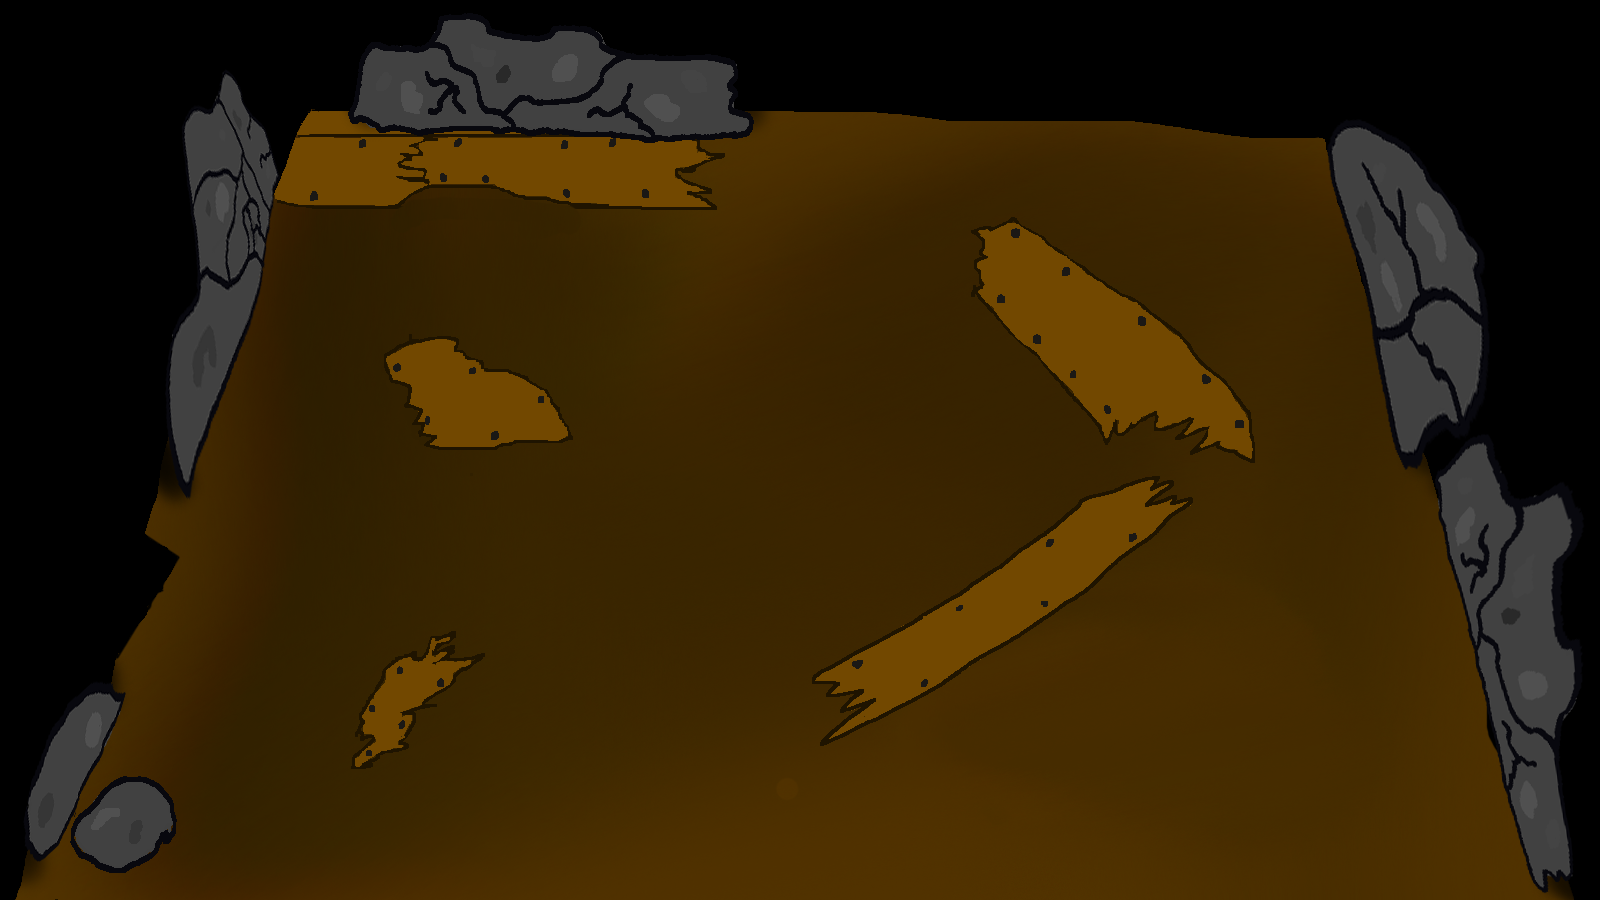
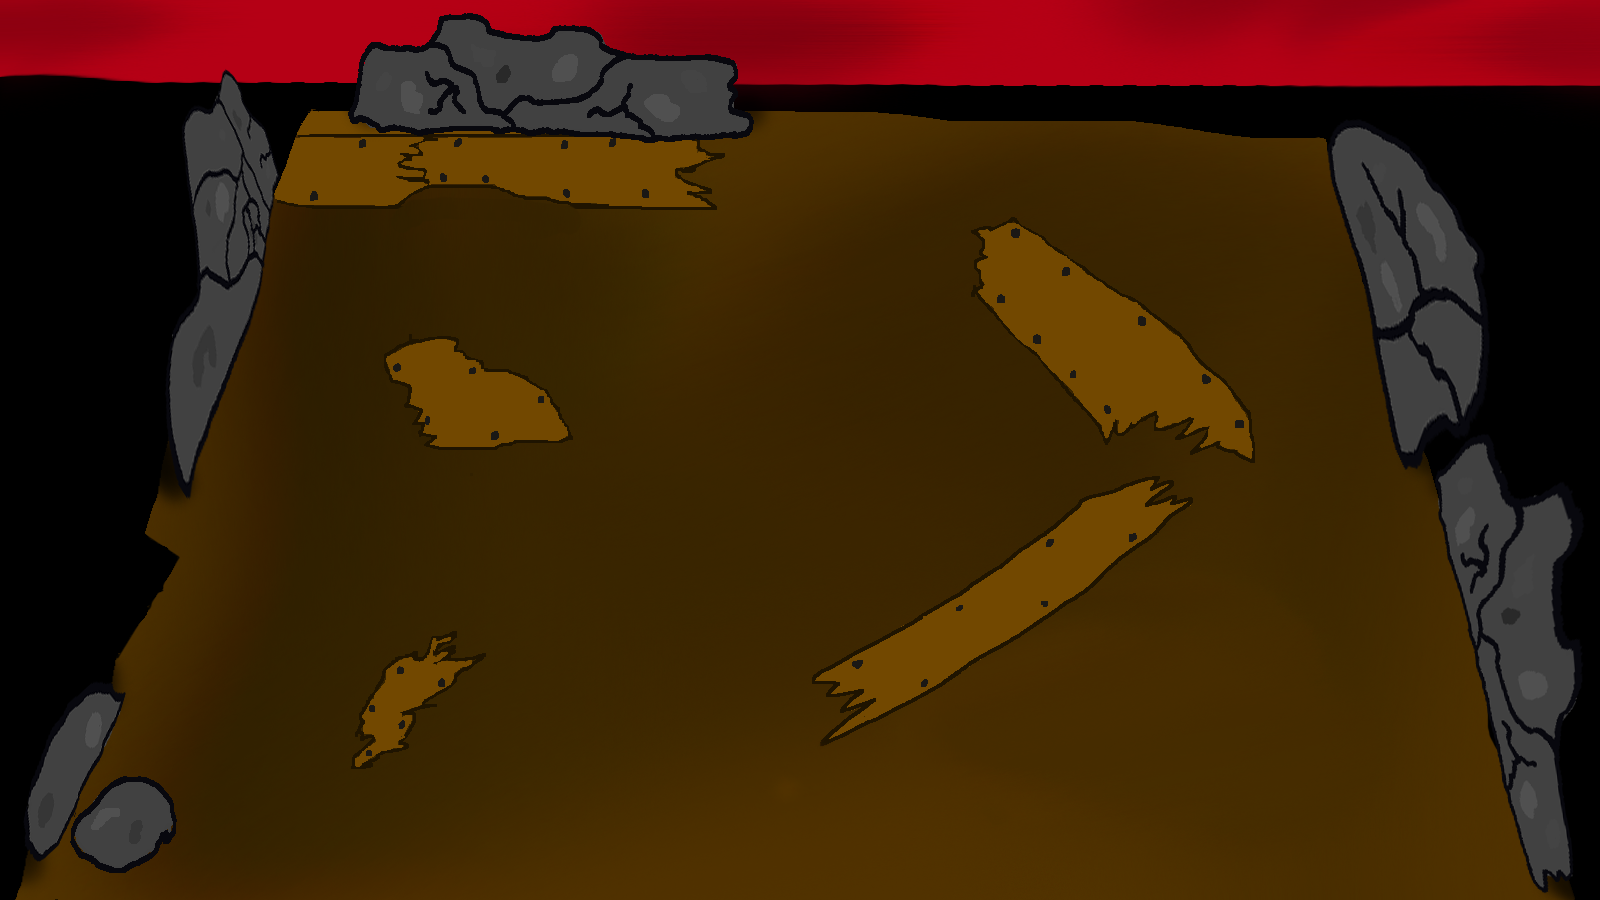
Добавлен класс тумана

Changed region(s): [[0.0, 0.0, 1.0, 0.1244]]

diff --git a/main.py b/main.py
@@ -7,11 +7,11 @@ pygame.init()
 
 all_sprites = pygame.sprite.Group()
 anti_floor_group = pygame.sprite.Group()
-fire_group=pygame.sprite.Group()
-
-
+fire_group = pygame.sprite.Group()
+fog_group = pygame.sprite.Group()
 
 player_group = pygame.sprite.Group()
+
 
 FPS = 60
 
@@ -37,24 +37,24 @@ class Player(pygame.sprite.Sprite):
 
 
 class AntiFloor(pygame.sprite.Sprite):
-    def __init__(self,name_of_map,map):
+    def __init__(self, name_of_map, map):
         super().__init__(anti_floor_group, all_sprites)
         self.image = load_image(name_of_map)
 
-        self.image=pygame.transform.scale(self.image, (
-        map.get_size()))
-
+        self.image = pygame.transform.scale(self.image, (
+            map.get_size()))
 
         self.mask = pygame.mask.from_surface(self.image)  # Берётся маска пола
         self.mask.invert()  # маска пола превращается в маску НЕ ПОЛА, т.е. в маску стен
 
         self.rect = self.image.get_rect().move(0, 0)
 
+
 class FireAnimation(pygame.sprite.Sprite):
-    def __init__(self, sheet, columns, rows, x, y,coefficient):
-        super().__init__(fire_group,all_sprites)
+    def __init__(self, sheet, columns, rows, x, y, coefficient):
+        super().__init__(fire_group, all_sprites)
         self.frames = []
-        sheet = pygame.transform.scale(sheet, (sheet.get_width()//coefficient, sheet.get_height()//coefficient))
+        sheet = pygame.transform.scale(sheet, (sheet.get_width() // coefficient, sheet.get_height() // coefficient))
         self.cut_sheet(sheet, columns, rows)
         self.cur_frame = 0
         self.image = self.frames[self.cur_frame]
@@ -74,34 +74,49 @@ class FireAnimation(pygame.sprite.Sprite):
         self.image = self.frames[self.cur_frame]
 
 
+class Fog(pygame.sprite.Sprite):
+    def __init__(self, map):
+        super().__init__(fog_group, all_sprites)
+
+        self.image = load_image("туман_дом.png")
+        self.image = pygame.transform.scale(self.image,
+                                            (self.image.get_width(), map.get_size())[1])
+
+        self.rect = self.image.get_rect()
+
+    def update(self):
+        self.rect.left -= 1  # движение тумана
+        if self.rect.right < 0:  # телепортация
+            self.rect = self.rect.move((pygame.display.get_surface().get_size()[0] * 2.5, 0))
+
 
 def maps_loader(name_of_map):
-
-
-    map= pygame.transform.scale(load_image('карта_дом.png'), (
+    map = pygame.transform.scale(load_image(name_of_map), (
         pygame.display.get_surface().get_size()))  # Загрузать и изменить карту под размер окна
 
-    if name_of_map=="карта_дом.png":
-        anti_floor = AntiFloor("пол_дом.png",map)
+    if name_of_map == "карта_дом.png":
+        pygame.time.set_timer(pygame.USEREVENT + 1, 240)  # таймер для огня
+        pygame.time.set_timer(pygame.USEREVENT + 2, 140)  # таймер для тумана
 
-        coefficient=2
-        FireAnimation(load_image("огонь.png"), 6, 1, map.get_size()[0]//4.8,map.get_size()[1]//1.6, coefficient)
+        anti_floor = AntiFloor("пол_дом.png", map)
 
-        return map,anti_floor
+        firentlmt = load_image("огонь.png")  # Fire not to load many times Огонь чтобы не загружать много раз
+        FireAnimation(firentlmt, 6, 1, map.get_size()[0] // 4.8, map.get_size()[1] // 1.6, coefficient=2)
+        FireAnimation(firentlmt, 6, 1, map.get_size()[0] // 1.5, map.get_size()[1] // 3.1, coefficient=3.5)
+
+        Fog(map)
+
+        return map, anti_floor
     return map
-#-----------------------------------------------------------------------------------------------------------
 
 
+# -----------------------------------------------------------------------------------------------------------
 
 
 def start():
-    map,anti_floor=maps_loader('карта_дом.png')
-
+    map, anti_floor = maps_loader('карта_дом.png')
 
     screen.blit(map, (0, 0))
-
-    pygame.time.set_timer(pygame.USEREVENT + 1, 240)
-
 
     running = True
     player = Player(500, 500)
@@ -113,15 +128,17 @@ def start():
                 running = False
             elif event.type == pygame.USEREVENT + 1:
                 fire_group.update()
+            elif event.type == pygame.USEREVENT + 2:
 
-        #------------------------------------------------------------------------------------------------
+                fog_group.update()
+
+        # ------------------------------------------------------------------------------------------------
         if (pygame.key.get_pressed()[K_RIGHT] or pygame.key.get_pressed()[K_d]):
 
             player.rect.left += 10
-            if pygame.sprite.collide_mask(player,anti_floor):  # Если после того как
+            if pygame.sprite.collide_mask(player, anti_floor):  # Если после того как
                 # персонаж прошёл, он соприкасается со стеной
-                player.rect.left -= 10 # то его отбросит назад
-
+                player.rect.left -= 10  # то его отбросит назад
 
         # ------------------------------------------------------------------------------------------------
         if pygame.key.get_pressed()[K_LEFT] or pygame.key.get_pressed()[K_a]:
@@ -129,32 +146,26 @@ def start():
             if pygame.sprite.collide_mask(player, anti_floor):
                 player.rect.left += 10
 
-        #------------------------------------------------------------------------------------------------
+        # ------------------------------------------------------------------------------------------------
         if pygame.key.get_pressed()[K_UP] or pygame.key.get_pressed()[K_w]:
             player.rect.top -= 10
 
             if pygame.sprite.collide_mask(player, anti_floor):
                 player.rect.top += 10
 
-
-
-        #------------------------------------------------------------------------------------------------
+        # ------------------------------------------------------------------------------------------------
 
         if pygame.key.get_pressed()[K_DOWN] or pygame.key.get_pressed()[K_s]:
             player.rect.top += 10
             if pygame.sprite.collide_mask(player, anti_floor):
                 player.rect.top -= 10
 
-
         screen.blit(map, (0, 0))
         player_group.draw(screen)
-
         fire_group.draw(screen)
+        fog_group.draw(screen)
 
         pygame.display.flip()
-
-
-
 
         clock.tick(FPS)
 
